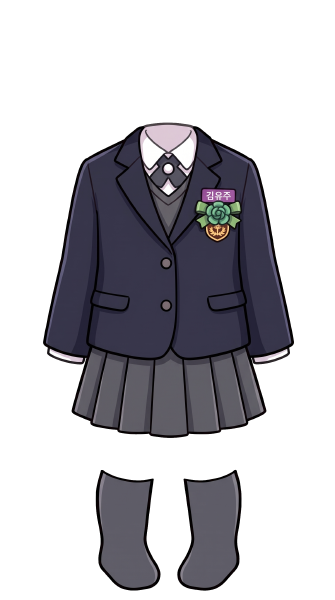
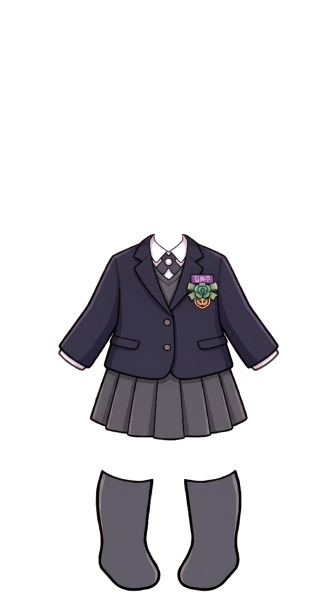
신발 4종·헤어핀 아이템 실제 대시보드에 적용
- av_shoes_rainbow2/rose/star2/blackmaryjane, av_acc_shellpin 상점 등록 및 AV_FIT 좌표 적용
- 교복 이미지는 테스터용 소스만 재처리(체커 배경 제거+리사이즈), 대시보드 미반영 상태로 대기

diff --git a/lily.html b/lily.html
@@ -865,6 +865,7 @@ const SHOP_ITEMS = [
   { id:'av_acc_necklace', emoji:'💫', name:'별 목걸이',      cat:'av_acc', price:100, desc:'반짝이는 별 모양 목걸이' },
   { id:'av_acc_glasses',  emoji:'👓', name:'동그란 안경',    cat:'av_acc', price:90,  desc:'귀여운 동그란 안경' },
   { id:'av_acc_ribbon',   emoji:'💝', name:'리본 목걸이',    cat:'av_acc', price:110, desc:'예쁜 리본 목걸이' },
+  { id:'av_acc_shellpin', emoji:'🐚', name:'조개 핀',        cat:'av_acc', price:90,  desc:'귀여운 조개 모양 머리핀' },
   // ── 아바타 옷 추가 5개
   { id:'av_outfit_angel',   emoji:'🤍', name:'천사 드레스',   cat:'av_outfit', price:240, desc:'새하얀 천사 날개 드레스' },
   { id:'av_outfit_witch',   emoji:'🧙', name:'마녀 드레스',   cat:'av_outfit', price:220, desc:'별빛 반짝이는 마녀 드레스' },
@@ -876,6 +877,10 @@ const SHOP_ITEMS = [
   { id:'av_shoes_star',     emoji:'⭐', name:'별빛 부츠',      cat:'av_shoes', price:130, desc:'반짝이는 별빛 부츠' },
   { id:'av_shoes_rainbow',  emoji:'🌈', name:'무지개 스니커즈',cat:'av_shoes', price:120, desc:'무지개 색 귀여운 스니커즈' },
   { id:'av_shoes_flower',   emoji:'🌸', name:'꽃 샌들',        cat:'av_shoes', price:110, desc:'꽃 장식이 달린 예쁜 샌들' },
+  { id:'av_shoes_rainbow2', emoji:'🌈', name:'무지개 샌들',    cat:'av_shoes', price:120, desc:'상큼한 무지개색 샌들' },
+  { id:'av_shoes_rose',     emoji:'🌹', name:'장미 구두',      cat:'av_shoes', price:150, desc:'붉은 장미 장식 구두' },
+  { id:'av_shoes_star2',    emoji:'⭐', name:'별무늬 부츠',    cat:'av_shoes', price:130, desc:'별이 콕콕 박힌 귀여운 부츠' },
+  { id:'av_shoes_blackmaryjane', emoji:'👞', name:'검정 메리제인', cat:'av_shoes', price:130, desc:'단정한 검정 메리제인 슈즈' },
   { id:'av_bag_star',       emoji:'⭐', name:'별 미니백',       cat:'av_acc', price:140, desc:'노란 손잡이가 달린 별 모양 반짝이 미니백' },
   { id:'av_bag_flower',     emoji:'🧺', name:'꽃바구니 백',    cat:'av_acc', price:120, desc:'꽃이 담긴 예쁜 바구니 백' },
 ];
@@ -1120,11 +1125,16 @@ const AV_FIT = {
   av_shoes_star:    { img:'av_shoes_star.png',    scale:0.602, ox:-0.10, oy:34.20 },
   av_shoes_rainbow: { img:'av_shoes_rainbow.png', scale:0.644, ox:-0.10, oy:33.20 },
   av_shoes_flower:  { img:'av_shoes_ribbon_extra.png', scale:1, ox:0, oy:0 },
+  av_shoes_rainbow2: { img:'av_shoes_rainbow2.png', scale:0.970, scaleX:1.000, ox:0.00, oy:2.20 },
+  av_shoes_rose:     { img:'av_shoes_rose.png',     scale:1.012, scaleX:1.000, ox:0.00, oy:0.20 },
+  av_shoes_star2:    { img:'av_shoes_star2.png',    scale:1.020, scaleX:1.000, ox:0.00, oy:-0.70 },
+  av_shoes_blackmaryjane: { img:'av_shoes_blackmaryjane.png', scale:0.6, ox:0, oy:34 },
+  av_acc_shellpin:   { img:'av_acc_shellpin.png',   scale:1.145, scaleX:1.165, ox:-10.40, oy:3.10 },
   av_bag_star:   { img:'av_bag_star.png',   scale:0.836, ox:36.70, oy:23.20 },
   av_bag_flower: { img:'av_bag_flower.png', scale:0.4,   ox:22,    oy:15 },
 };
 const AV_HAIR_IDS = ['av_hair_bow','av_hair_pink','av_hair_star','av_hair_flower'];
-const AV_ACC_IDS  = ['av_acc_tiara','av_acc_necklace','av_acc_glasses','av_acc_ribbon','av_bag_star','av_bag_flower'];
+const AV_ACC_IDS  = ['av_acc_tiara','av_acc_necklace','av_acc_glasses','av_acc_ribbon','av_bag_star','av_bag_flower','av_acc_shellpin'];
 
 function avLayer(id) {
   const f = AV_FIT[id];

diff --git a/lily2.html b/lily2.html
@@ -865,6 +865,7 @@ const SHOP_ITEMS = [
   { id:'av_acc_necklace', emoji:'💫', name:'별 목걸이',      cat:'av_acc', price:100, desc:'반짝이는 별 모양 목걸이' },
   { id:'av_acc_glasses',  emoji:'👓', name:'동그란 안경',    cat:'av_acc', price:90,  desc:'귀여운 동그란 안경' },
   { id:'av_acc_ribbon',   emoji:'💝', name:'리본 목걸이',    cat:'av_acc', price:110, desc:'예쁜 리본 목걸이' },
+  { id:'av_acc_shellpin', emoji:'🐚', name:'조개 핀',        cat:'av_acc', price:90,  desc:'귀여운 조개 모양 머리핀' },
   // ── 아바타 옷 추가 5개
   { id:'av_outfit_angel',   emoji:'🤍', name:'천사 드레스',   cat:'av_outfit', price:240, desc:'새하얀 천사 날개 드레스' },
   { id:'av_outfit_witch',   emoji:'🧙', name:'마녀 드레스',   cat:'av_outfit', price:220, desc:'별빛 반짝이는 마녀 드레스' },
@@ -876,6 +877,10 @@ const SHOP_ITEMS = [
   { id:'av_shoes_star',     emoji:'⭐', name:'별빛 부츠',      cat:'av_shoes', price:130, desc:'반짝이는 별빛 부츠' },
   { id:'av_shoes_rainbow',  emoji:'🌈', name:'무지개 스니커즈',cat:'av_shoes', price:120, desc:'무지개 색 귀여운 스니커즈' },
   { id:'av_shoes_flower',   emoji:'🌸', name:'꽃 샌들',        cat:'av_shoes', price:110, desc:'꽃 장식이 달린 예쁜 샌들' },
+  { id:'av_shoes_rainbow2', emoji:'🌈', name:'무지개 샌들',    cat:'av_shoes', price:120, desc:'상큼한 무지개색 샌들' },
+  { id:'av_shoes_rose',     emoji:'🌹', name:'장미 구두',      cat:'av_shoes', price:150, desc:'붉은 장미 장식 구두' },
+  { id:'av_shoes_star2',    emoji:'⭐', name:'별무늬 부츠',    cat:'av_shoes', price:130, desc:'별이 콕콕 박힌 귀여운 부츠' },
+  { id:'av_shoes_blackmaryjane', emoji:'👞', name:'검정 메리제인', cat:'av_shoes', price:130, desc:'단정한 검정 메리제인 슈즈' },
   { id:'av_bag_star',       emoji:'⭐', name:'별 미니백',       cat:'av_acc', price:140, desc:'노란 손잡이가 달린 별 모양 반짝이 미니백' },
   { id:'av_bag_flower',     emoji:'🧺', name:'꽃바구니 백',    cat:'av_acc', price:120, desc:'꽃이 담긴 예쁜 바구니 백' },
 ];
@@ -1120,11 +1125,16 @@ const AV_FIT = {
   av_shoes_star:    { img:'av_shoes_star.png',    scale:0.602, ox:-0.10, oy:34.20 },
   av_shoes_rainbow: { img:'av_shoes_rainbow.png', scale:0.644, ox:-0.10, oy:33.20 },
   av_shoes_flower:  { img:'av_shoes_ribbon_extra.png', scale:1, ox:0, oy:0 },
+  av_shoes_rainbow2: { img:'av_shoes_rainbow2.png', scale:0.970, scaleX:1.000, ox:0.00, oy:2.20 },
+  av_shoes_rose:     { img:'av_shoes_rose.png',     scale:1.012, scaleX:1.000, ox:0.00, oy:0.20 },
+  av_shoes_star2:    { img:'av_shoes_star2.png',    scale:1.020, scaleX:1.000, ox:0.00, oy:-0.70 },
+  av_shoes_blackmaryjane: { img:'av_shoes_blackmaryjane.png', scale:0.6, ox:0, oy:34 },
+  av_acc_shellpin:   { img:'av_acc_shellpin.png',   scale:1.145, scaleX:1.165, ox:-10.40, oy:3.10 },
   av_bag_star:   { img:'av_bag_star.png',   scale:0.836, ox:36.70, oy:23.20 },
   av_bag_flower: { img:'av_bag_flower.png', scale:0.4,   ox:22,    oy:15 },
 };
 const AV_HAIR_IDS = ['av_hair_bow','av_hair_pink','av_hair_star','av_hair_flower'];
-const AV_ACC_IDS  = ['av_acc_tiara','av_acc_necklace','av_acc_glasses','av_acc_ribbon','av_bag_star','av_bag_flower'];
+const AV_ACC_IDS  = ['av_acc_tiara','av_acc_necklace','av_acc_glasses','av_acc_ribbon','av_bag_star','av_bag_flower','av_acc_shellpin'];
 
 function avLayer(id) {
   const f = AV_FIT[id];
